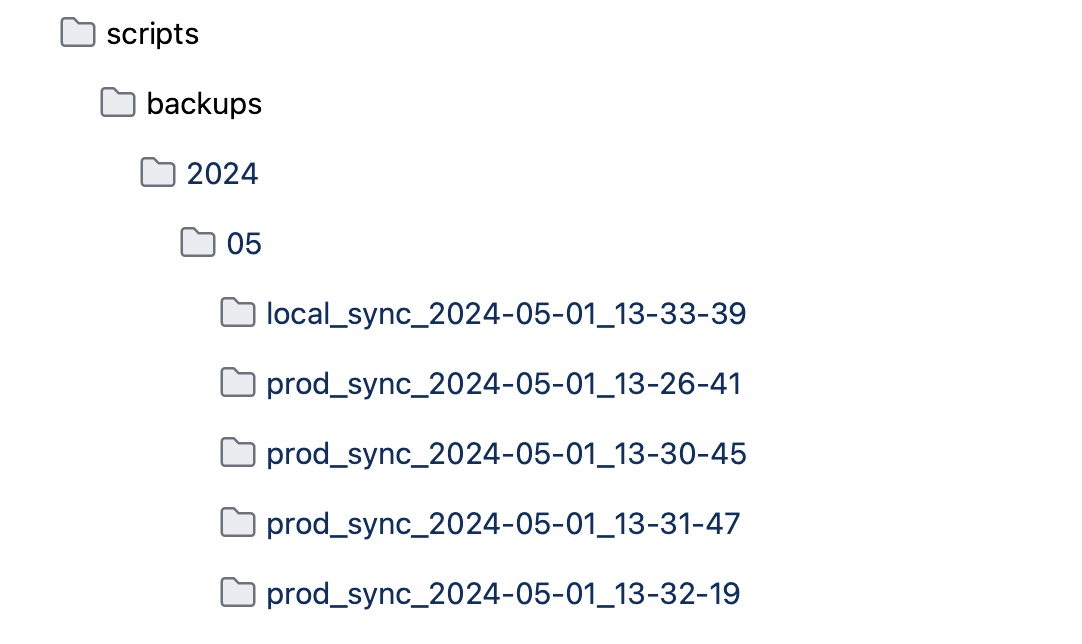
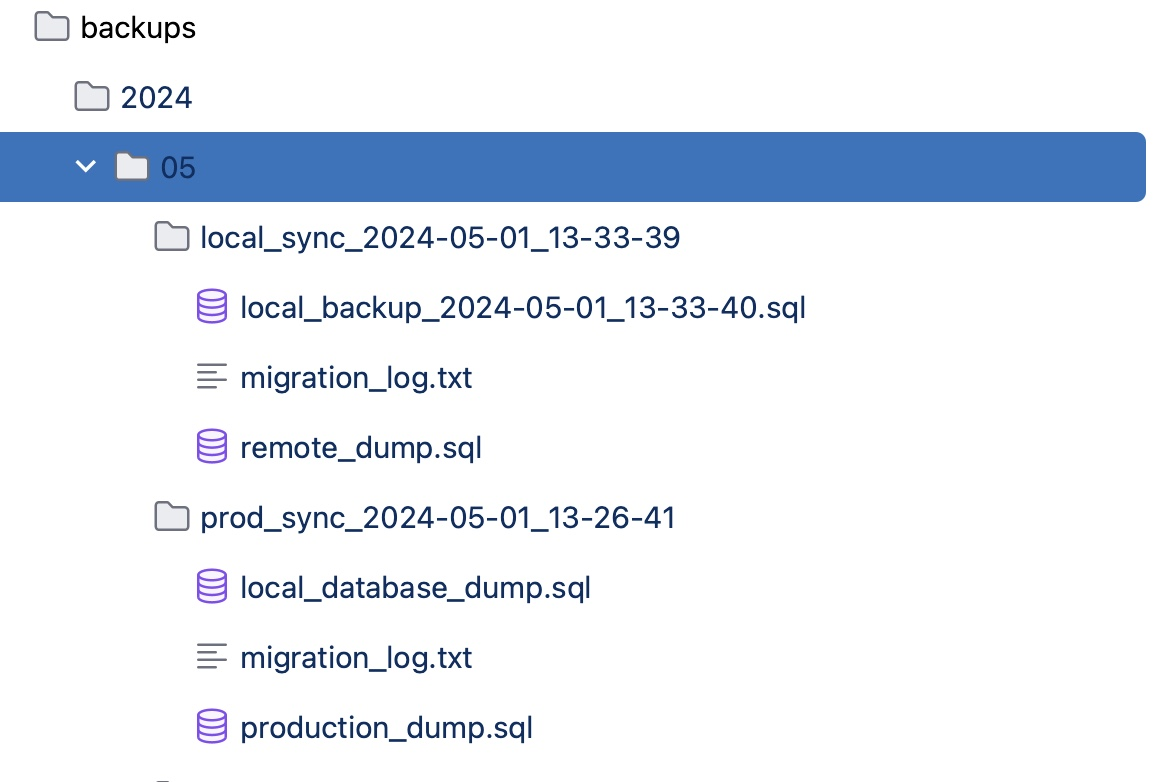
add screenshot

diff --git a/README.md b/README.md
@@ -128,3 +128,5 @@ make sync_remote_db
 - Prints a message indicating that the migration is complete.
 
 
+## Backups Result Screenshot
+![Backup Screenshot](https://github.com/sukhoy94/sync-wp-database-bash/blob/main/backups_screenshot.jpeg)
